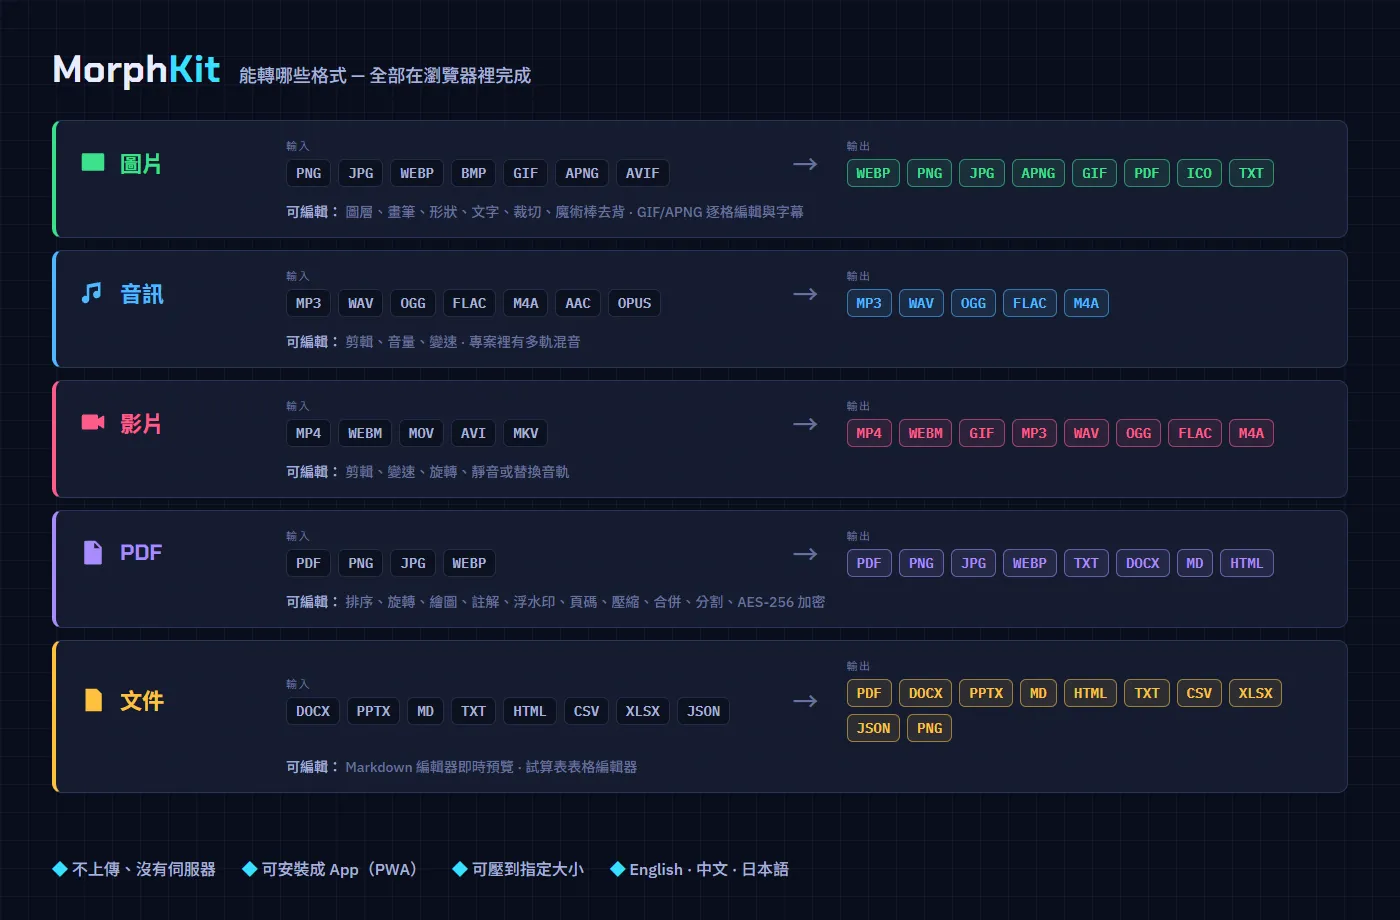
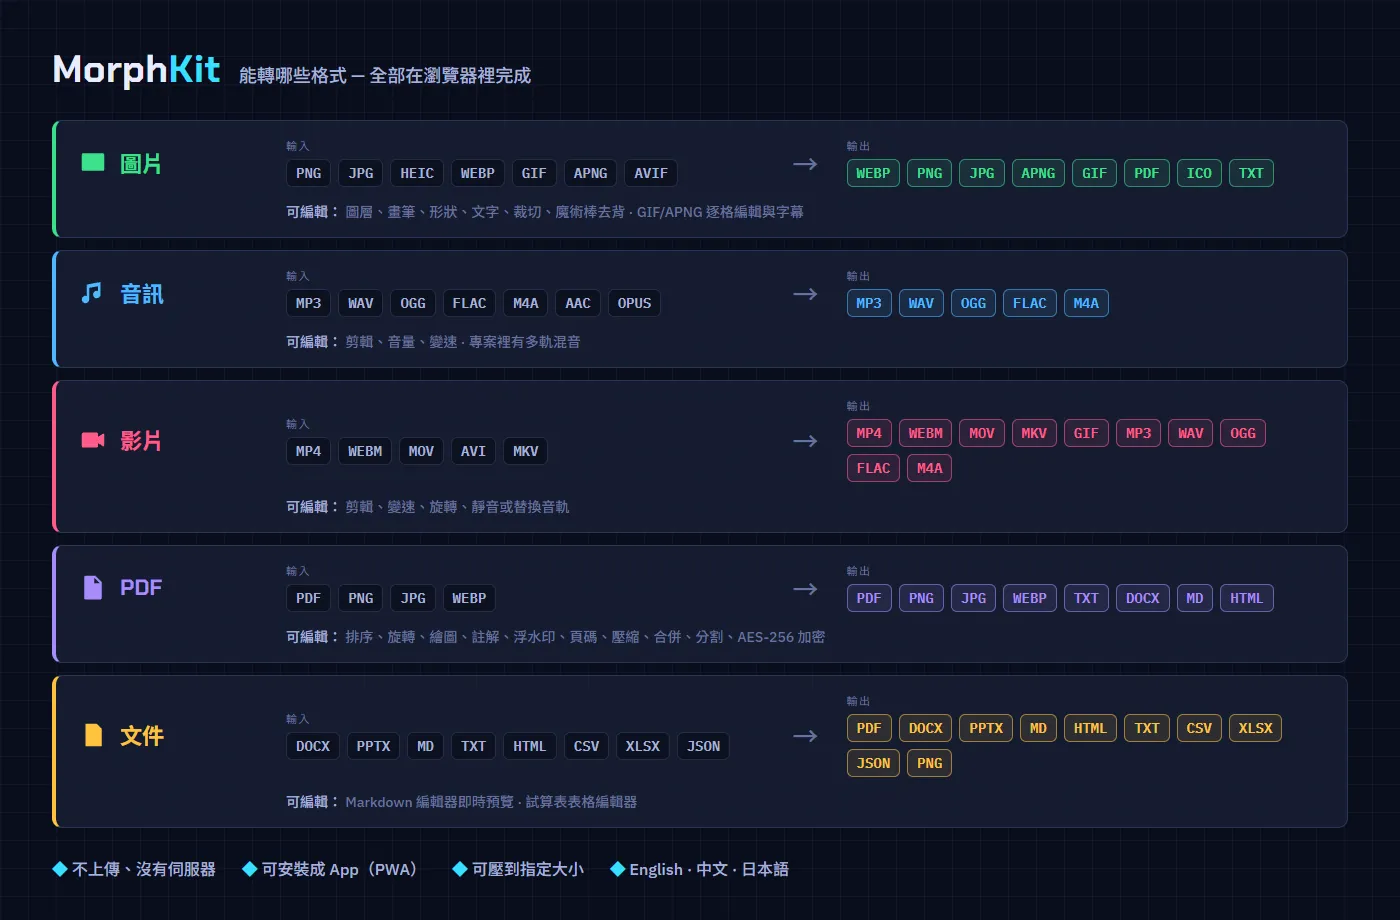
docs: MOV and MKV (and HEIC) in the READMEs, the formats picture and the maps

diff --git a/docs/images/formats.html b/docs/images/formats.html
@@ -10,7 +10,7 @@
 
   The OUT lists must match the format registry in src/lib/formats.ts (IMAGE_OUTPUTS, AUDIO_OUTPUTS,
   VIDEO_OUTPUTS, PDF_OUTPUTS, DOC_OUTPUTS); tests/formatsPicture.test.ts fails when they drift.
-  The IN lists are a short pick, like the ones in src/components/FormatMatrix.tsx.
+  The IN lists are a short pick; the app's full list is the home panel's "All formats" table (lib/formatMap).
 -->
 <html><head><meta charset="utf-8">
 <link href="https://fonts.googleapis.com/css2?family=Chakra+Petch:wght@600;700&family=IBM+Plex+Mono:wght@500;600&family=IBM+Plex+Sans:wght@500&family=Noto+Sans+TC:wght@500;700&display=block" rel="stylesheet">
@@ -69,9 +69,9 @@ const ICON = {
 };
 // [kind, colour, IN (a short pick), OUT (must match src/lib/formats.ts)]
 const ROWS = [
-  ['image', '#3ce08c', ['PNG', 'JPG', 'WEBP', 'BMP', 'GIF', 'APNG', 'AVIF'], ['WEBP', 'PNG', 'JPG', 'APNG', 'GIF', 'PDF', 'ICO', 'TXT']],
+  ['image', '#3ce08c', ['PNG', 'JPG', 'HEIC', 'WEBP', 'GIF', 'APNG', 'AVIF'], ['WEBP', 'PNG', 'JPG', 'APNG', 'GIF', 'PDF', 'ICO', 'TXT']],
   ['audio', '#4db8ff', ['MP3', 'WAV', 'OGG', 'FLAC', 'M4A', 'AAC', 'OPUS'], ['MP3', 'WAV', 'OGG', 'FLAC', 'M4A']],
-  ['video', '#ff5c8a', ['MP4', 'WEBM', 'MOV', 'AVI', 'MKV'], ['MP4', 'WEBM', 'GIF', 'MP3', 'WAV', 'OGG', 'FLAC', 'M4A']],
+  ['video', '#ff5c8a', ['MP4', 'WEBM', 'MOV', 'AVI', 'MKV'], ['MP4', 'WEBM', 'MOV', 'MKV', 'GIF', 'MP3', 'WAV', 'OGG', 'FLAC', 'M4A']],
   ['pdf', '#a78bfa', ['PDF', 'PNG', 'JPG', 'WEBP'], ['PDF', 'PNG', 'JPG', 'WEBP', 'TXT', 'DOCX', 'MD', 'HTML']],
   ['doc', '#ffc23e', ['DOCX', 'PPTX', 'MD', 'TXT', 'HTML', 'CSV', 'XLSX', 'JSON'], ['PDF', 'DOCX', 'PPTX', 'MD', 'HTML', 'TXT', 'CSV', 'XLSX', 'JSON', 'PNG']],
 ];

diff --git a/CLAUDE.md b/CLAUDE.md
@@ -86,7 +86,7 @@ and i18n key or `{placeholder}` gaps. Rules, triggers, and rationale: `docs/clau
 
 | File | Role |
 |---|---|
-| `lib/formats.ts` | Kind detection (`image\|audio\|video\|pdf\|doc`; images include heic/heif), `SOURCE_TARGET` (a source's natural first output: gif↔apng, heic→jpeg), `EXTENSIONS` (every accepted extension by kind; `ACCEPT` and the home panel read it) + `SAME_FORMAT` (jpeg→jpg …), output lists — the single registry the UI derives from (image outs include `pdf`, `ico` and `txt` = OCR, `SLOW_IMAGE_OUTPUTS` queue like media; `VIDEO_OUTPUTS` = mp4/webm/gif + every audio output; `PDF_OUTPUTS` png/jpeg/webp/txt/docx/md/html/pdf; documents: `docTypeOf` → `DOC_OUTPUTS[type]` via `docOutputs(file)` — `outputsFor(kind, file)` needs the file for docs), `formatLabel` (jpeg → JPG), `ACCEPT` for file pickers, default targets (gif→apng, apng→gif, pdf→png, doc→first output), size thresholds, mime map |
+| `lib/formats.ts` | Kind detection (`image\|audio\|video\|pdf\|doc`; images include heic/heif), `SOURCE_TARGET` (a source's natural first output: gif↔apng, heic→jpeg), `EXTENSIONS` (every accepted extension by kind; `ACCEPT` and the home panel read it) + `SAME_FORMAT` (jpeg→jpg …), output lists — the single registry the UI derives from (image outs include `pdf`, `ico` and `txt` = OCR, `SLOW_IMAGE_OUTPUTS` queue like media; `VIDEO_OUTPUTS` = mp4/webm/mov/mkv/gif + every audio output; `PDF_OUTPUTS` png/jpeg/webp/txt/docx/md/html/pdf; documents: `docTypeOf` → `DOC_OUTPUTS[type]` via `docOutputs(file)` — `outputsFor(kind, file)` needs the file for docs), `formatLabel` (jpeg → JPG), `ACCEPT` for file pickers, default targets (gif→apng, apng→gif, pdf→png, doc→first output), size thresholds, mime map |
 | `lib/settings.ts` | Persisted Settings (localStorage `morphkit-settings`) — the defaults for new files |
 | `lib/settingFields.ts` | The ONE description of every setting: label, control, hint and `applies(kind, target)` = the conversions it changes. `fieldsFor`, `effectiveSettings(defaults, item.opts)`, `withOption` (an override equal to the default is dropped), `activeOverrides`, `showValue`. Invariant 33 |
 | `lib/formatMap.ts` | What the home panel shows, derived from the registries: `formatRows` (one row per kind, per document sub-type `DOC_TYPES`; inputs from `EXTENSIONS` with `SAME_FORMAT` merged), `inputsOf`/`outputsOf`/`allOutputs`, `needsFor` (browser / engine / ocr / ocrScans / fonts — mirrors runConvert), `describeKey` (`fmt_<target>` or a kind-specific key), `optionsFor` (= `fieldsFor` label keys), `tasksFor`, `searchFormats` |
@@ -281,7 +281,7 @@ and i18n key or `{placeholder}` gaps. Rules, triggers, and rationale: `docs/clau
     reads `effectiveSettings(settingsRef.current, item.opts)` — inside `runConvert` never read
     `settingsRef.current` directly (only the worker count is app-wide). A field's `applies(kind, target)`
     in lib/settingFields MUST say the same as the conversion code that reads the setting (it uses the
-    same constants: `AUDIO_OUTPUTS`, `AV_TARGETS`, `ART_CAPABLE`, `RASTER_OUTPUTS`, `PDF_TEXT_OUTPUTS`),
+    same constants: `AUDIO_OUTPUTS`, `AV_TARGETS`, `H264_TARGETS` (mp4/mov/mkv: one H.264 + AAC encode, the encoder speed applies), `ART_CAPABLE`, `RASTER_OUTPUTS`, `PDF_TEXT_OUTPUTS`),
     or a card offers an option that does nothing. Changing an option of a finished file sends it back
     to ready (`staleResult`), like changing the target. Overrides live in memory with the item; the
     drawer's values are never changed from a card.

diff --git a/docs/claude/libs.md b/docs/claude/libs.md
@@ -7,7 +7,7 @@
 
 Engine pool: `acquireEngine`/`releaseEngine(ff, broken)` are internal; jobs call `withEngine(job, onDownload)` (invariant 38: an
 `isEngineFault` — wasm trap text — terminates and drops the instance, the job runs once more on a fresh one; tests/ffmpegEngine.test.ts).
-Exports: `isEngineReady()` · `isEngineFault(e)` · `convertMedia(file, target, settings, edit, onProgress, onDownload?, fit?: FitTarget)` ·
+Exports: `isEngineReady()` · `isEngineFault(e)` · `H264_TARGETS` (mp4/mov/mkv share one `buildArgs` branch: libx264 + aac) · `AV_TARGETS` (H264_TARGETS + webm) · `convertMedia(file, target, settings, edit, onProgress, onDownload?, fit?: FitTarget)` ·
 `muxVideo(video, audioWav|null, trimStart, trimEnd, settings, onProgress, onDownload?)` ·
 `extractAudio(video, trimStart, trimEnd, onDownload?)` (trim-aligned 44.1k stereo WAV; throws when
 the video has no audio stream — header-only output is treated as failure) · `type DownloadProgress` ·
@@ -110,7 +110,7 @@ Exports: `Kind` (image|audio|video|pdf|doc) · `KINDS` (each kind's name key and
 `DOC_TEXT_EXT`/`DOC_SHEET_EXT` · `DocType` + `docTypeOf(file)` (docx|pptx|text|md|html|sheet|json) · `isTextDoc`
 (md/text/html/json — the docs that can be Studio text projects) · `DOC_OUTPUTS` (record per sub-type; first
 entry = default; sheets/json lead with xlsx/csv) + `docOutputs(file)` · `outputsFor(kind, file?)` (file REQUIRED for docs) · `AUDIO_OUTPUTS [mp3 wav ogg flac m4a]` ·
-`VIDEO_OUTPUTS [mp4 webm gif ...AUDIO_OUTPUTS]` · `LARGE_FILE_BYTES 200MB` · `HUGE_FILE_BYTES 1.8GB` · `extOf` ·
+`VIDEO_OUTPUTS [mp4 webm mov mkv gif ...AUDIO_OUTPUTS]` · `LARGE_FILE_BYTES 200MB` · `HUGE_FILE_BYTES 1.8GB` · `extOf` ·
 `detectKind` (MIME prefix then ext allow-lists; null = unsupported) · `ACCEPT` (file-picker list built from
 the same lists) · `outputsFor` · `defaultTarget`
 (gif→apng / apng→gif FIRST, else webp/mp3/mp4 preference, jpg≡jpeg) · `formatLabel` (jpeg→JPG, else upper

diff --git a/README.md b/README.md
@@ -48,7 +48,8 @@ of file, and its own options.
   centred on a transparent square.
 - Audio and video through [ffmpeg.wasm](https://ffmpegwasm.netlify.app/) (single-thread core, so no
   special server headers are needed), with 1–4 parallel workers. Tags and cover art are carried over
-  where the target format supports them. A video can also become any of the audio formats (MP3, WAV,
+  where the target format supports them. Video goes to MP4, WEBM, MOV (what Apple's editors expect) or MKV
+  — MP4, MOV and MKV all as H.264 + AAC. A video can also become any of the audio formats (MP3, WAV,
   OGG, FLAC, M4A); one without a sound track says so instead of failing vaguely.
 - PDF pages to PNG / JPG / WEBP (one ZIP for multi-page files), PDF text to TXT / DOCX / Markdown / HTML,
   password-protected PDFs unlocked in memory.
